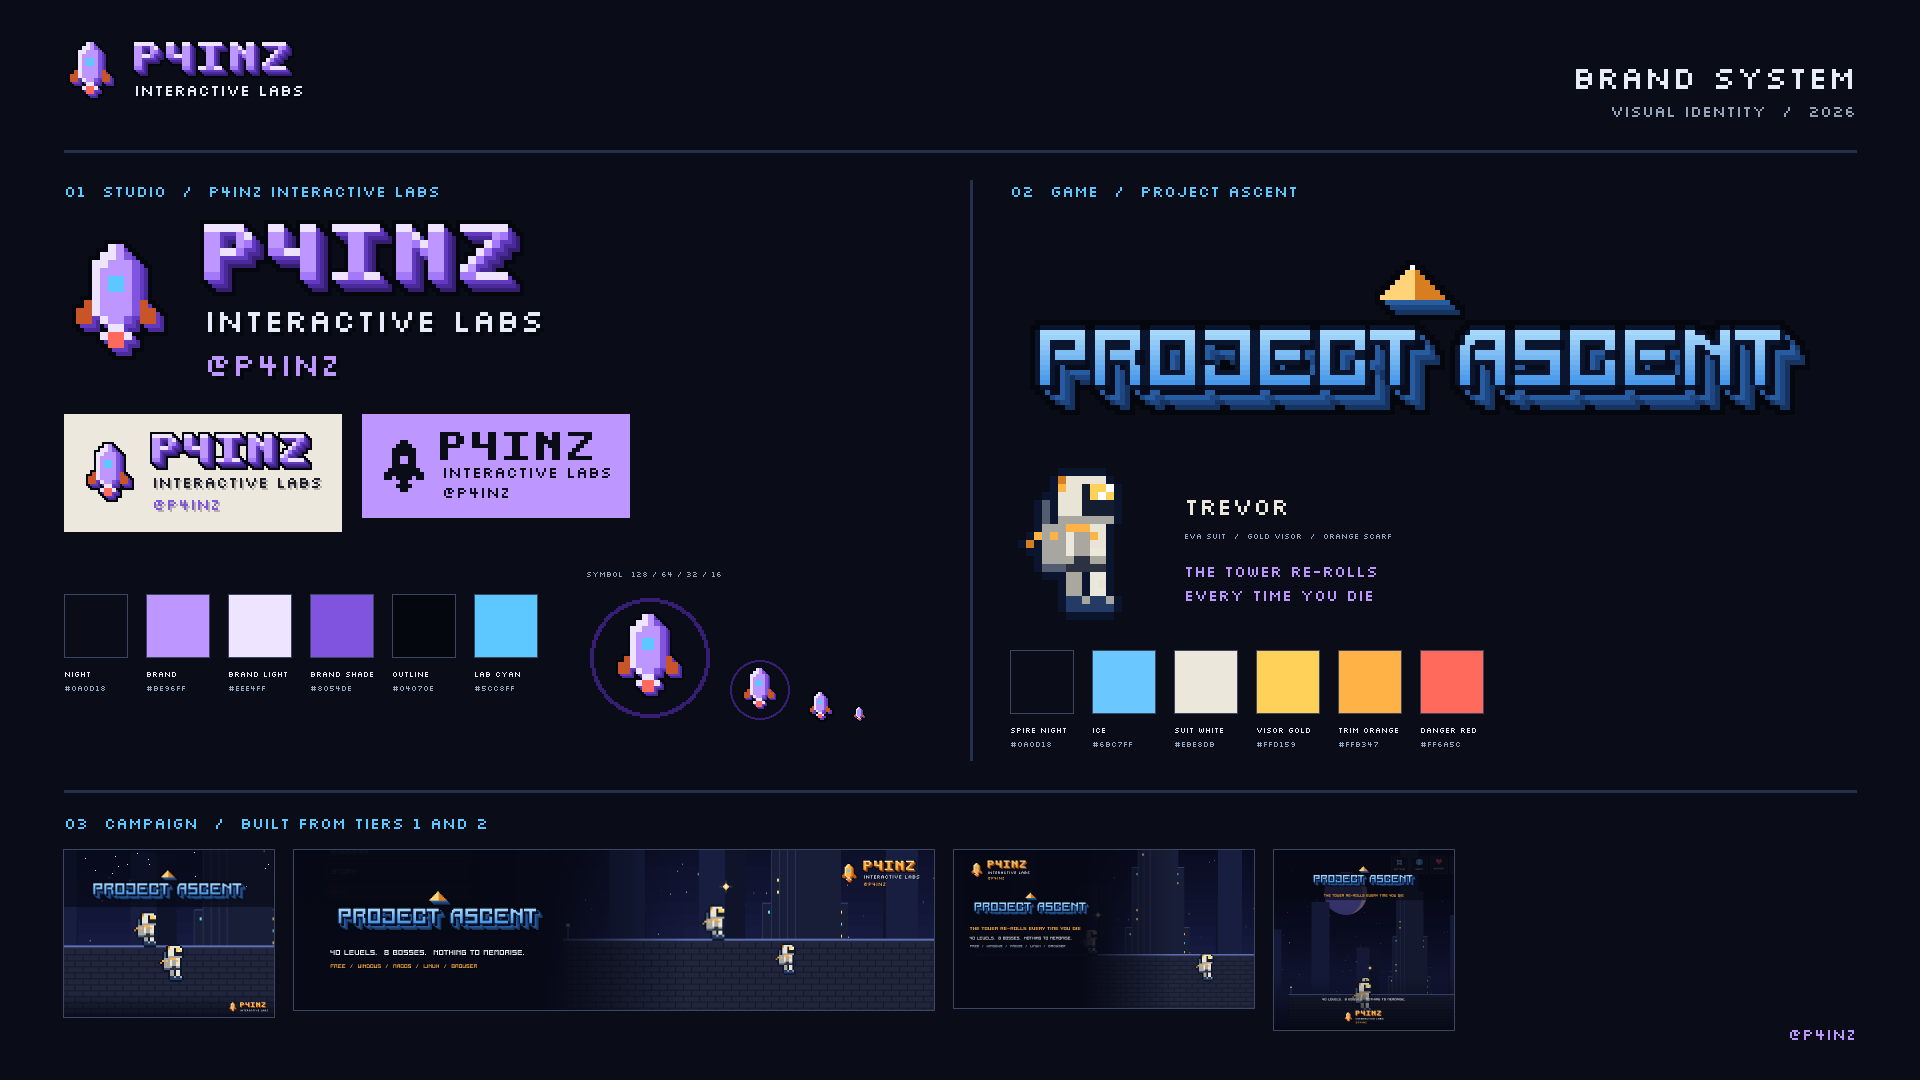
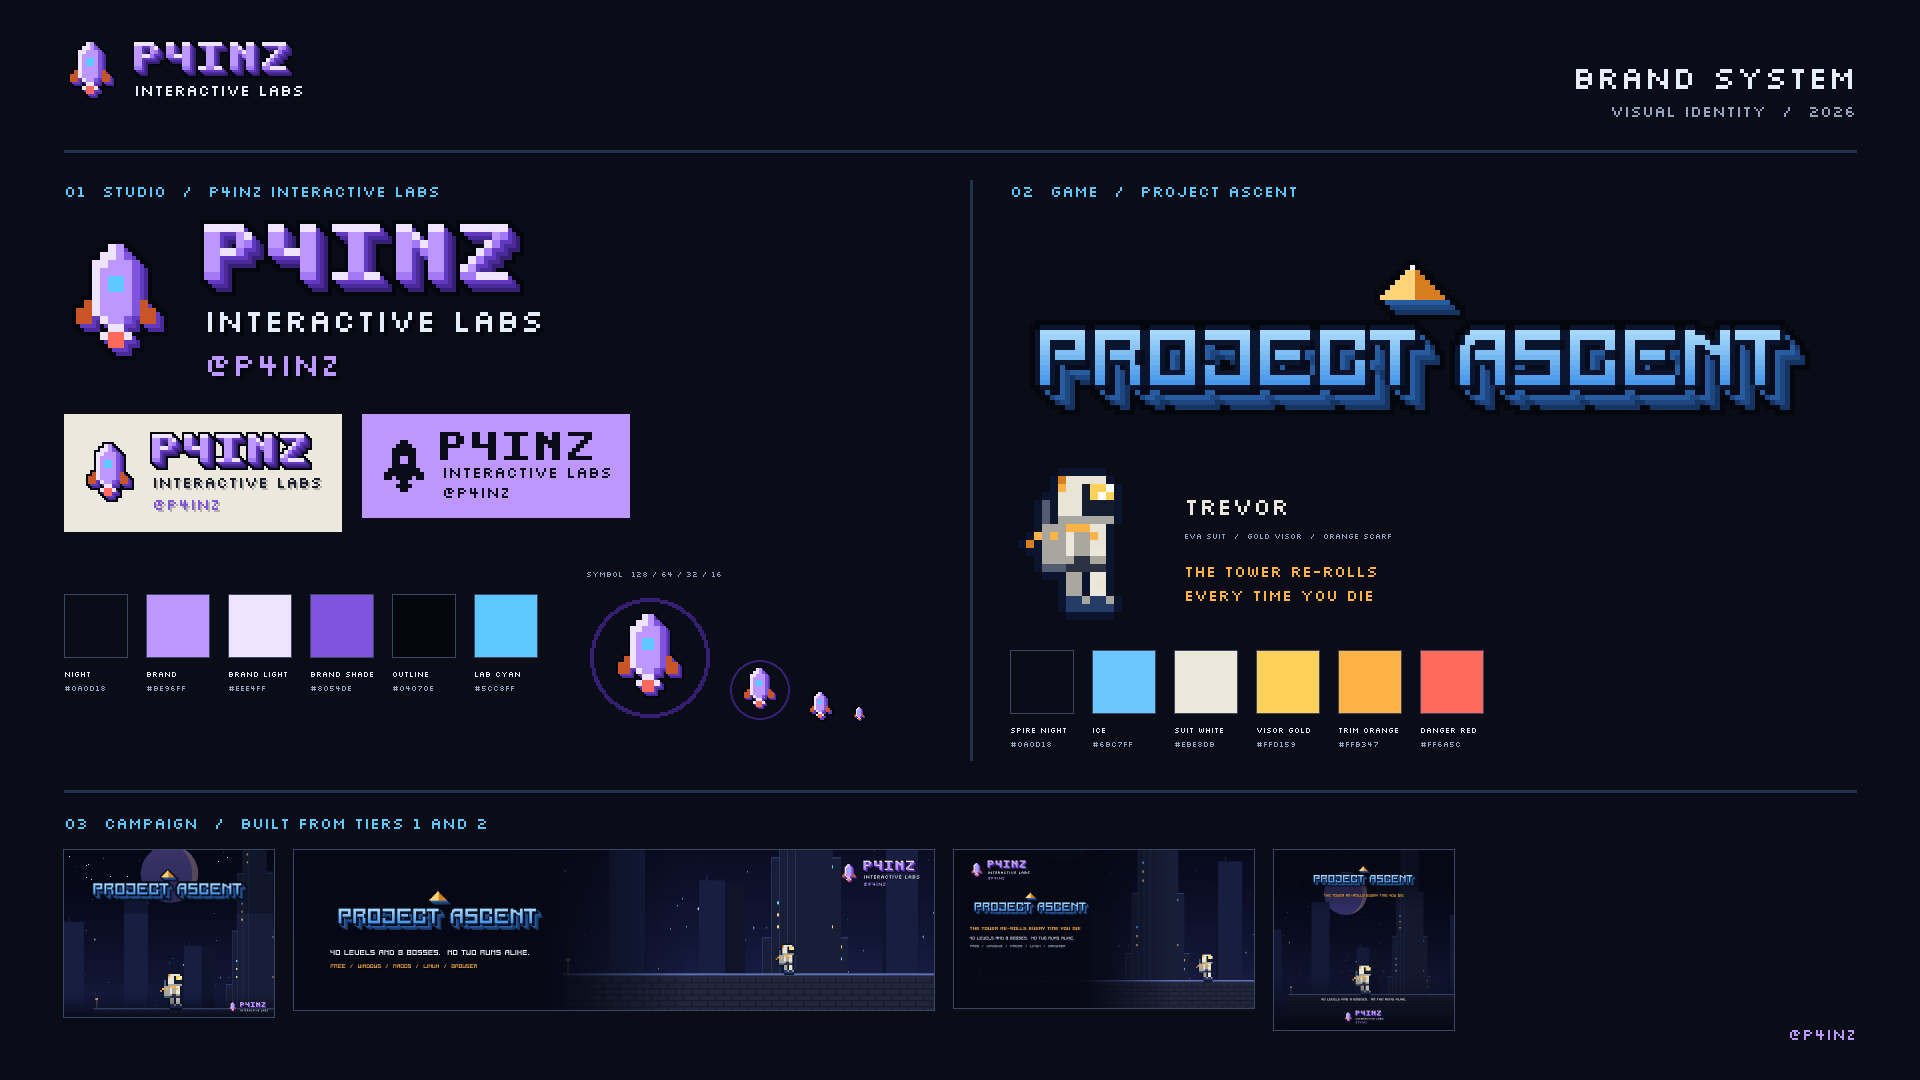
itch kit: rebuilt on clean key art in the violet brand, HD copies
- docs/itch/src/keyart_bg.png captured from the title scene with no menu, Trevor or PIP,
  so every asset shows exactly one Trevor, placed by the kit on the ledge.
- Cover uses a whole-pixel 2/3 view of the 3 px key-art grid, so the moon, the Spire and
  the ledge fit; stars only twinkle on open sky. Animated GIF cover is 46 KB.
- Square post: soft fade behind the logo instead of a hard band.
- Image pitch line humanized: "40 LEVELS AND 8 BOSSES. NO TWO RUNS ALIKE."
- hd/ holds @2x copies of every asset; brand board refreshed with the new kit; the game
  tagline on the board stays in the game's trim orange.

diff --git a/tools/make_itch_assets.py b/tools/make_itch_assets.py
@@ -28,7 +28,7 @@ LOGO = Image.open(os.path.join(ROOT, "assets", "pixel", "logo.png")).convert("RG
 STUDIO = "P4INZ INTERACTIVE LABS"
 HANDLE = "@p4inz"
 TAGLINE = "THE TOWER RE-ROLLS EVERY TIME YOU DIE"
-PITCH = "40 LEVELS.  8 BOSSES.  NOTHING TO MEMORISE."
+PITCH = "40 LEVELS AND 8 BOSSES.  NO TWO RUNS ALIKE."
 PLATFORMS = "FREE  /  WINDOWS  /  MACOS  /  LINUX  /  BROWSER"
 AMBER = (255, 179, 71, 255)
 CYAN = (92, 200, 255, 255)
@@ -169,17 +169,36 @@ def save(img, name):
 
 # 1. itch cover 630 x 500. Research: one focal point, title readable as a thumbnail, almost no other words.
 #    The game logo large across the top, Trevor big on his ledge, only the studio mark small at the foot.
+# The key art is drawn on a 3 px grid, so reducing by 3 and scaling by 2 keeps every pixel whole: the cover uses
+# that 2/3 view so the moon, the Spire and the ledge all fit in 630 x 500.
+BG23 = brand.up(BG.reduce(3), 2) if KEYART else BG
+
+
+def cover_scene():
+    global GROUND
+    if not KEYART:
+        return scene(630, 500, 1330)
+    ledge = LEDGE * 2 // 3
+    y0 = ledge + 26 - 500
+    GROUND = 26
+    return BG23.crop((450, y0, 1080, y0 + 500)).copy()
+
+
 def cover_frame(t, trevor_frame=0):
-    c = scene(630, 500, 1330)
+    c = cover_scene()
     top = Image.new("RGBA", c.size, (0, 0, 0, 0))
-    ImageDraw.Draw(top).rectangle((0, 0, 630, 170), fill=NIGHT + (165,))
+    ImageDraw.Draw(top).rectangle((0, 0, 630, 190), fill=NIGHT + (90,))
     c = Image.alpha_composite(c, top)
     # twinkling stars in the dark band (deterministic per frame for the GIF)
     import random
     rng = random.Random(77)
     d = ImageDraw.Draw(c)
-    for i in range(26):
-        sx, sy = rng.randrange(6, 624, 3), rng.randrange(6, 160, 3)
+    sky = c.copy()
+    for i in range(40):
+        sx, sy = rng.randrange(6, 624, 3), rng.randrange(6, 200, 3)
+        r_, g_, b_, _ = sky.getpixel((sx + 1, sy + 1))
+        if r_ + g_ + b_ > 40:      # only open night sky: never over the moon or a building
+            continue
         on = (i + t) % 5 != 0
         if on:
             d.rectangle((sx, sy, sx + 2, sy + 2), fill=(220, 230, 255, 230 if (i + t) % 3 else 140))
@@ -256,7 +275,9 @@ q = Image.alpha_composite(q, Image.new("RGBA", q.size, NIGHT + (60,)))
 put_trevor(q, 540, 10)
 q = vfade(q, 760, 250)
 topq = Image.new("RGBA", q.size, (0, 0, 0, 0))
-ImageDraw.Draw(topq).rectangle((0, 0, 1080, 300), fill=NIGHT + (170,))
+tqd = ImageDraw.Draw(topq)
+for yy in range(0, 360):   # a soft fade behind the logo, no hard edge across the moon
+    tqd.line([(0, yy), (1080, yy)], fill=NIGHT + (int(150 * min(1.0, (360 - yy) / 160.0)),))
 q = Image.alpha_composite(q, topq)
 lg = logo(4)
 q.alpha_composite(lg, ((1080 - lg.width) // 2, 70))

diff --git a/tools/studio_brand.py b/tools/studio_brand.py
@@ -387,8 +387,9 @@ def board(kit=None):
     b.alpha_composite(tv, (x2, ty))
     hd.text((x2 + tv.width + 30, ty + 30), "TREVOR", font=silk(24), fill=SUIT)
     hd.text((x2 + tv.width + 30, ty + 70), "EVA SUIT  /  GOLD VISOR  /  ORANGE SCARF", font=silk(8), fill=(150, 165, 190, 255))
-    hd.text((x2 + tv.width + 30, ty + 100), "THE TOWER RE-ROLLS", font=silk(16), fill=BODY)
-    hd.text((x2 + tv.width + 30, ty + 124), "EVERY TIME YOU DIE", font=silk(16), fill=BODY)
+    trim = (255, 179, 71, 255)   # tier 2 text uses the game's trim orange, never the studio colour
+    hd.text((x2 + tv.width + 30, ty + 100), "THE TOWER RE-ROLLS", font=silk(16), fill=trim)
+    hd.text((x2 + tv.width + 30, ty + 124), "EVERY TIME YOU DIE", font=silk(16), fill=trim)
     swatch_row(b, x2, ty + tv.height + 30, GAME_PALETTE, 64, 8)
     # tier 3
     d.rectangle((64, 790, W - 64, 792), fill=(36, 48, 78, 255))
